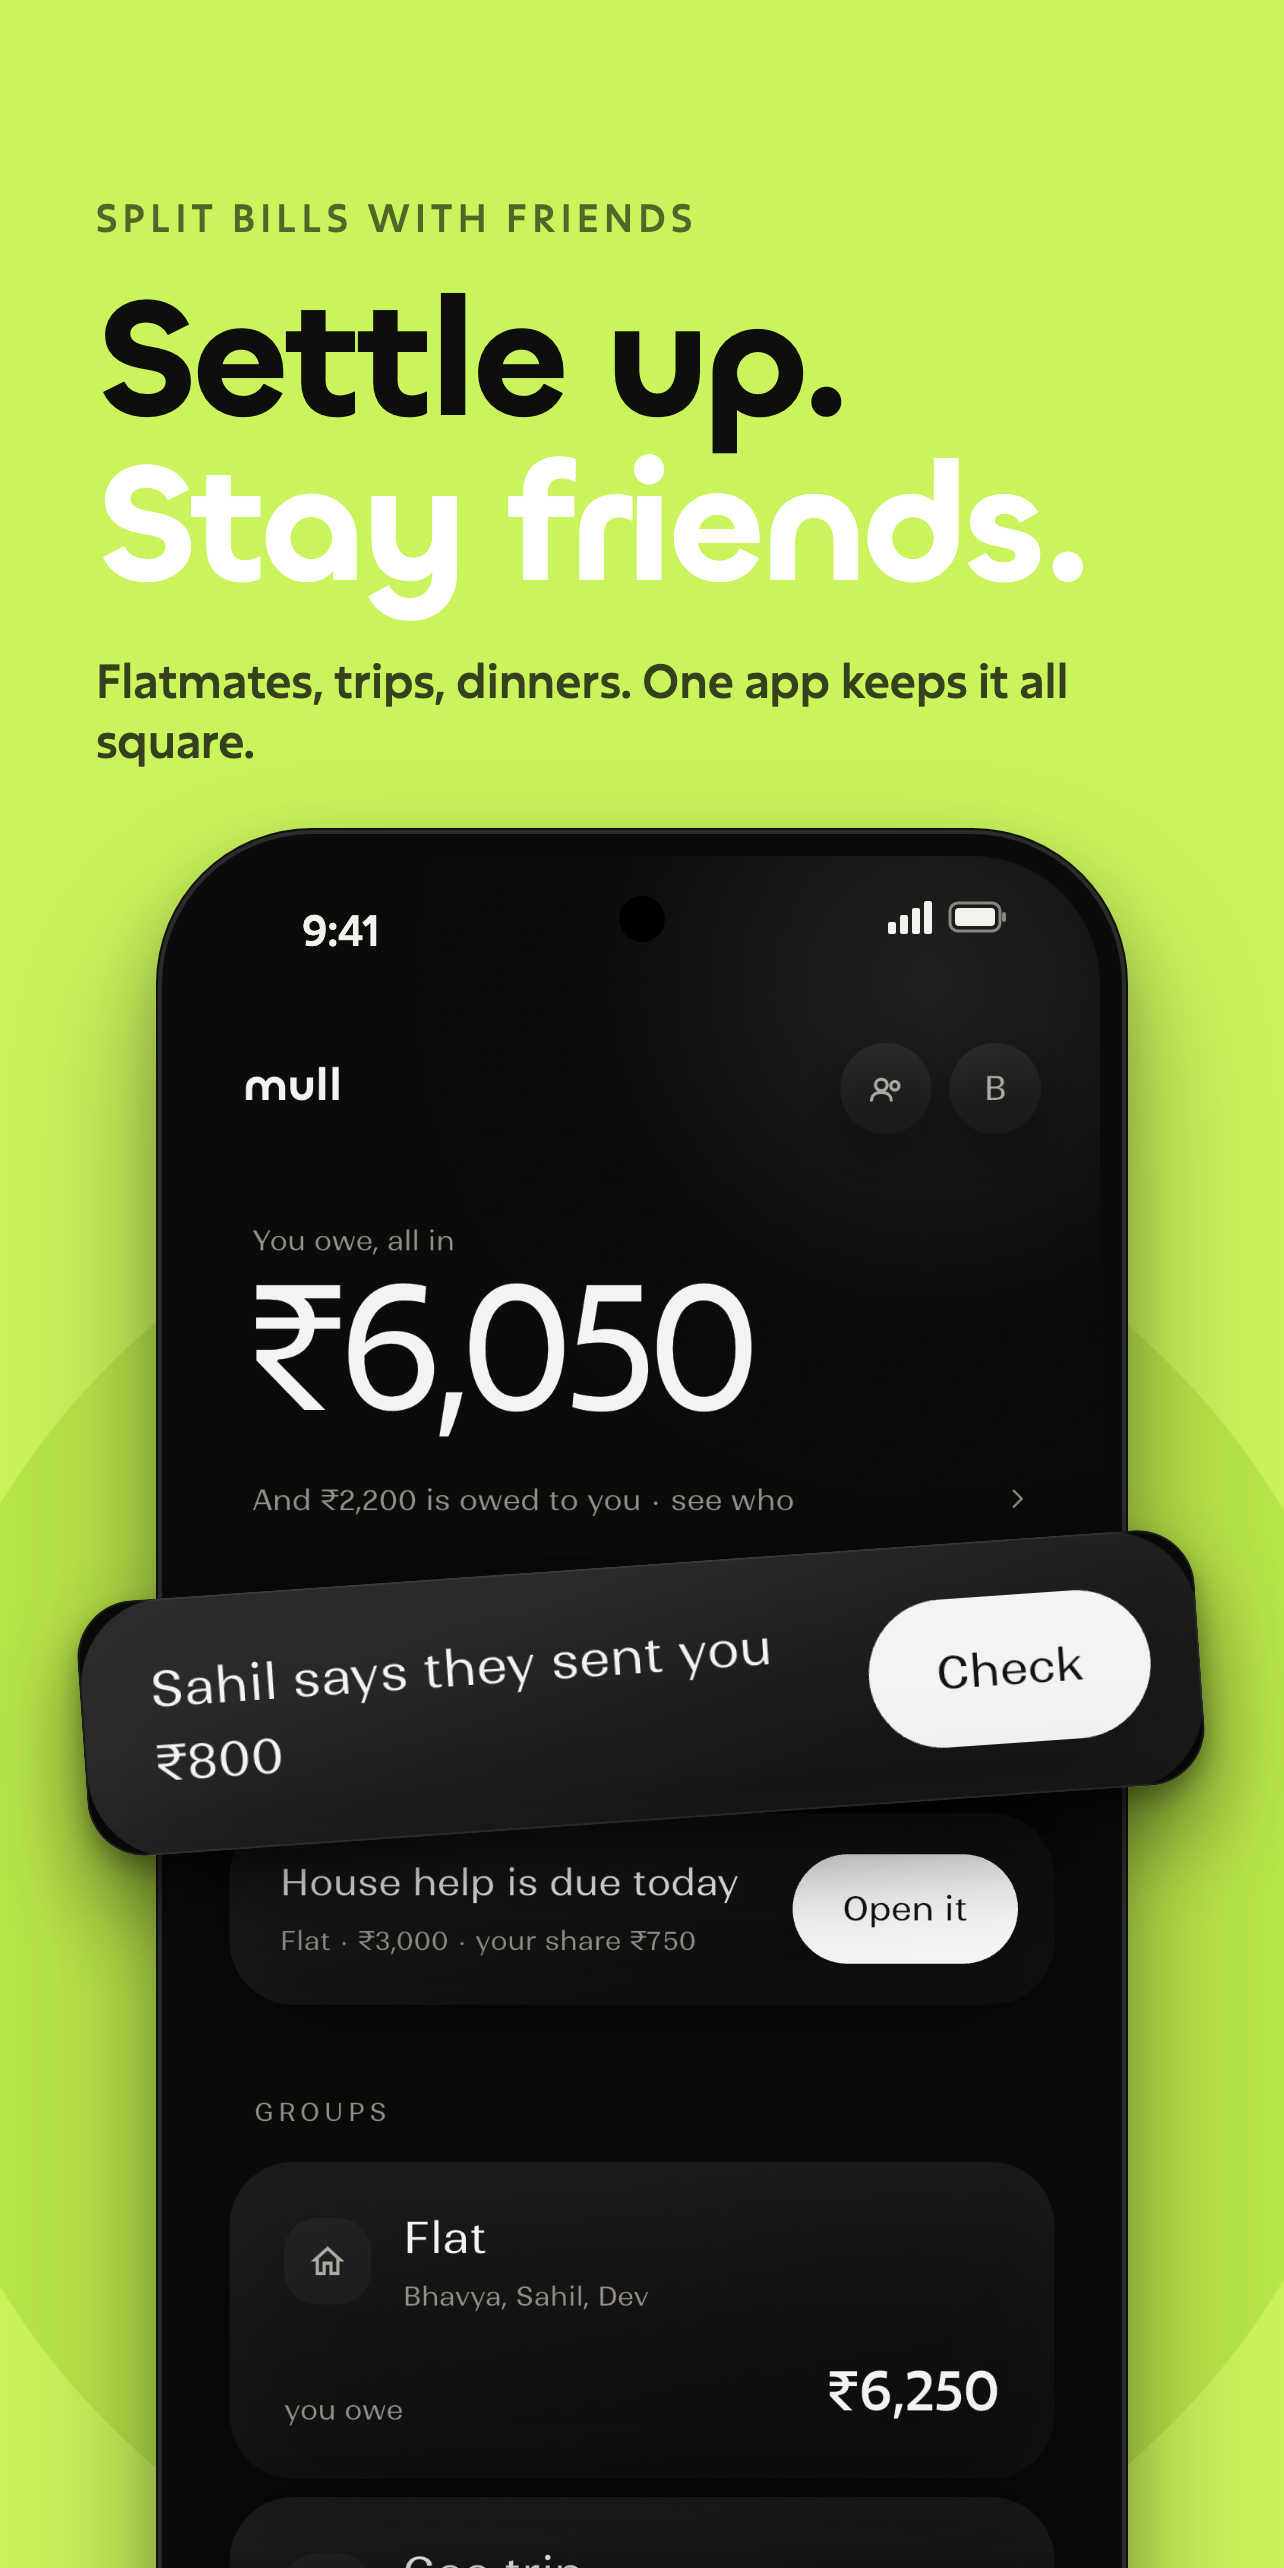
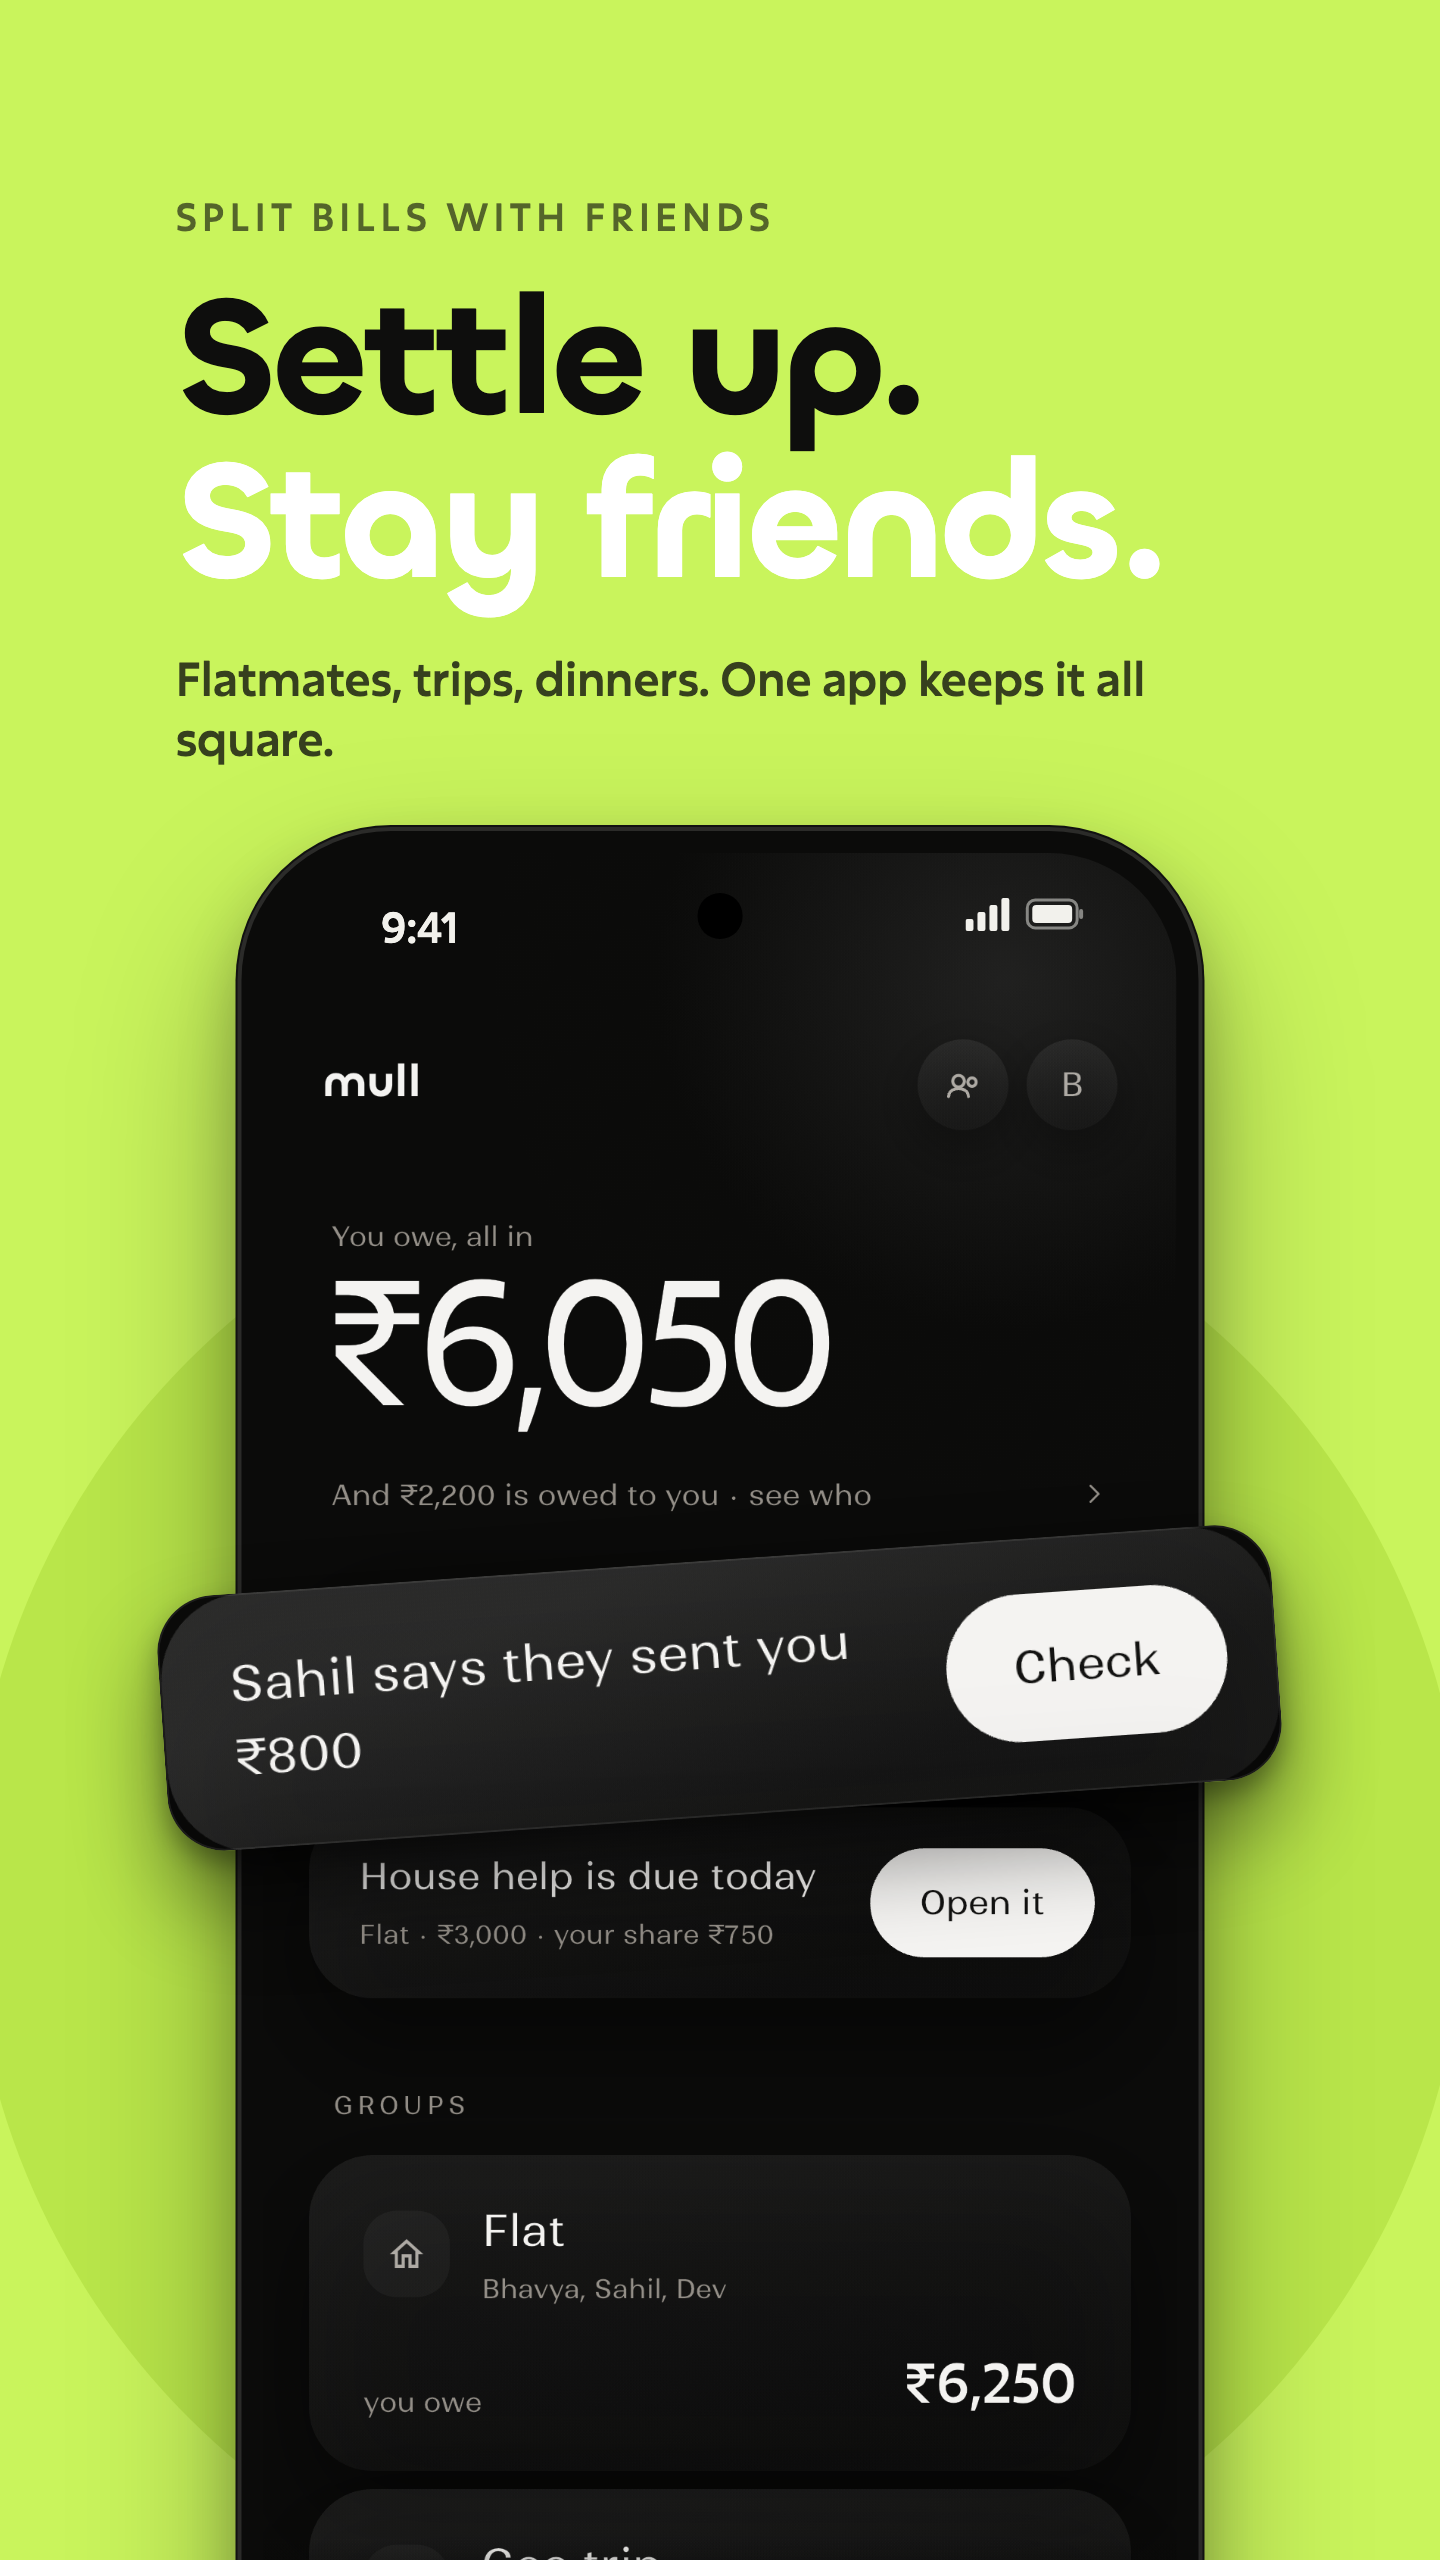
Play screenshots at 9:16 (1440x2560), the only shape Play takes
The 2:1 layout is kept and widened with field, so the copy stays clear of
the phone; the App Store renders are unchanged.

diff --git a/tool/store_shots.html b/tool/store_shots.html
@@ -75,20 +75,24 @@ const SLIDES = [
 const q = new URLSearchParams(location.search);
 const W = +q.get('w') || 1284, H = +q.get('h') || 2778;
 const s = SLIDES[(+q.get('s') || 1) - 1];
-const k = W / 1284; // everything is laid out at 1284 wide and scaled
+// Everything is laid out at 1284 wide and scaled. Play wants 9:16, where
+// the 2:1 layout would push the phone over the copy, so its slides keep the
+// 2:1 layout and grow sideways instead: the extra width is just field.
+const LW = q.has('android') ? 2568 * W / H : 1284;
+const k = W / LW, LH = H / k, dx = (LW - 1284) / 2;
 
 document.documentElement.style.cssText =
-  `--w:1284px;--h:${H / k}px;--bg:${s.bg};--disc:${s.disc};--hi:${s.hi};zoom:${k}`;
+  `--w:${LW}px;--h:${LH}px;--bg:${s.bg};--disc:${s.disc};--hi:${s.hi};zoom:${k}`;
 
 const S = '../screenshots/';
 document.body.insertAdjacentHTML('beforeend', `
-  <div class="disc" style="width:1500px;height:1500px;left:-110px;top:${1250 + (H / k - 2778) / 2}px"></div>
-  <div class="copy">
+  <div class="disc" style="width:1500px;height:1500px;left:${dx - 110}px;top:${1250 + (LH - 2778) / 2}px"></div>
+  <div class="copy" style="left:${96 + dx}px;right:${96 + dx}px">
     <div class="eyebrow">${s.eyebrow}</div>
     <h1>${s.h}</h1>
     <div class="sub">${s.sub}</div>
   </div>
-  <div class="phone" style="top:${960 + (H / k - 2778) * 0.6}px">
+  <div class="phone" style="top:${960 + (LH - 2778) * 0.6}px">
     <div class="screen">
       <img src="${S}${s.shot}.png">
       <div class="island"></div>
@@ -103,8 +107,8 @@ document.body.insertAdjacentHTML('beforeend', `
 
 const p = s.pop, [cx, cy, cw, ch] = p.crop, f = p.w / cw;
 // Centre the lifted piece on the spot it came from, so it covers its source.
-const phoneTop = 960 + (H / k - 2778) * 0.6, screen = 916 / 1206;
-const mx = (1284 - 960) / 2 + 22 + (cx + cw / 2) * screen;
+const phoneTop = 960 + (LH - 2778) * 0.6, screen = 916 / 1206;
+const mx = dx + (1284 - 960) / 2 + 22 + (cx + cw / 2) * screen;
 const my = phoneTop + 22 + (cy + ch / 2) * screen;
 const el = document.createElement('div');
 el.className = 'pop';

diff --git a/store/android/listing.md b/store/android/listing.md
@@ -7,7 +7,7 @@ Files in this folder:
 
 - `play-icon-512.png`: App icon (512×512)
 - `feature-graphic.png`: Feature graphic (1024×500), from `tool/play_feature.html`
-- `screenshots/01–06.png`: Phone screenshots (1284×2568). Play refuses a long side more than 2× the short one, so the iOS set can't be reused. All three are rendered by `tool/store_shots.sh`.
+- `screenshots/01–06.png`: Phone screenshots (1440×2560). Play takes only 16:9 or 9:16, so the iOS set can't be reused; these are the iOS layout widened with extra field. All three are rendered by `tool/store_shots.sh`.
 
 ## Create app
 
